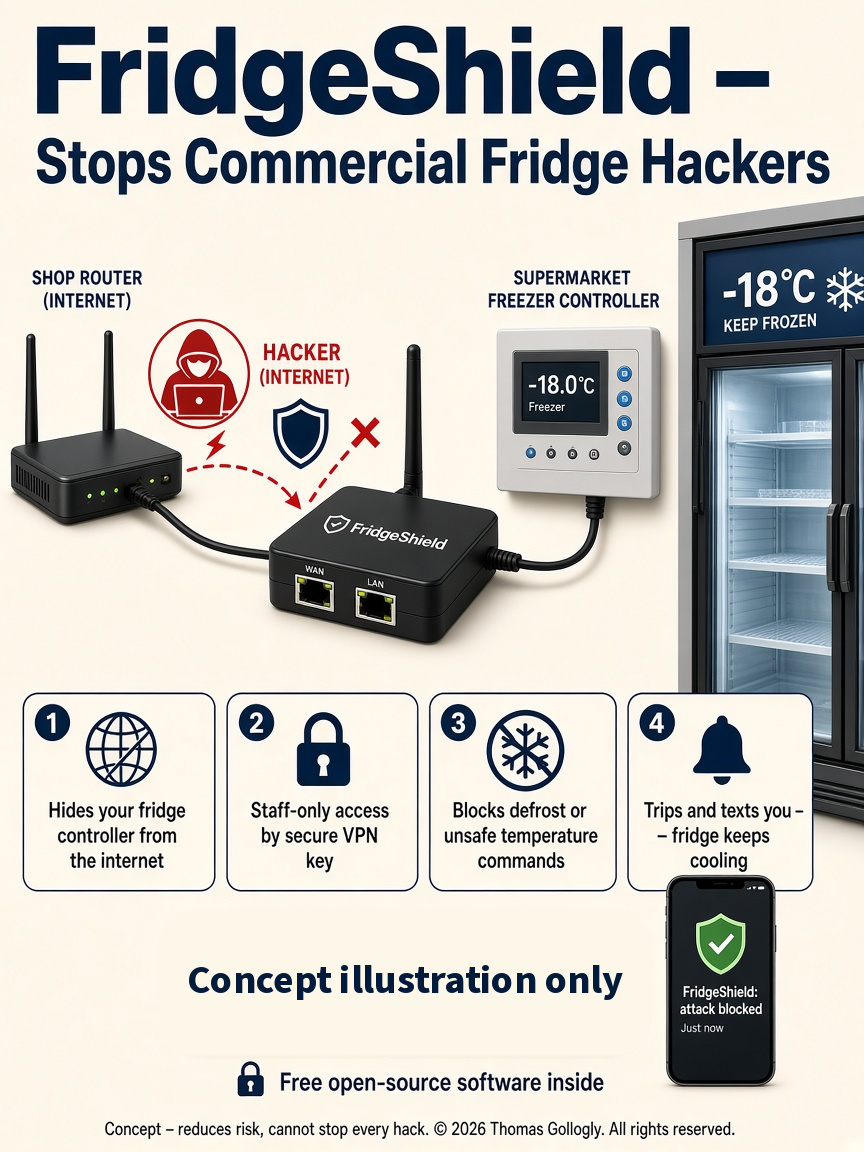
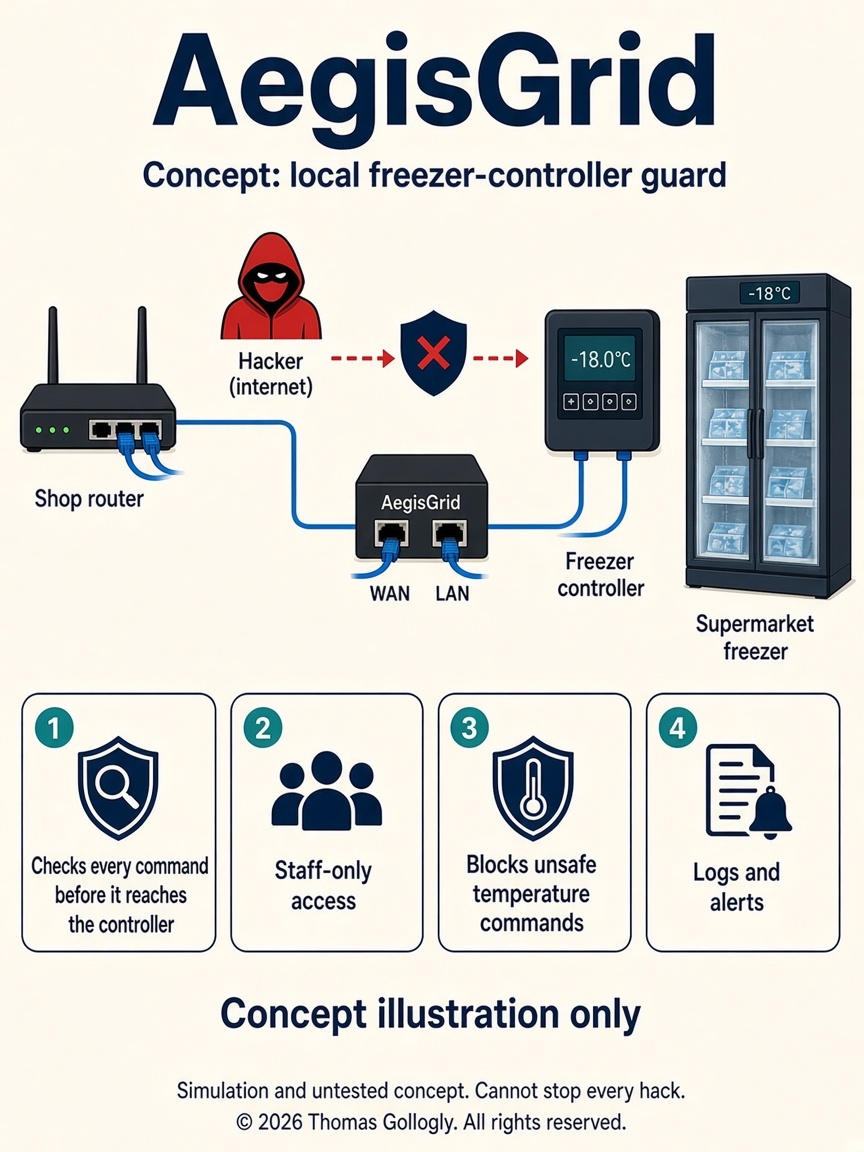
Security automation, WHY wording, poster rebrand, example disclaimer (#16)
* Add security CI, dependabot, disclaimer, and poster wording fixes

Dependabot and scheduled workflows run pip-audit and CodeQL weekly alongside
existing tests. WHY.md and the freezer sim README drop commercial framing;
the concept poster is rebranded to AegisGrid with headline and typo fixes.

* Ignore pytest 8.x advisory in pip-audit CI step

pytest 9.x is out of scope for this repo; pip-audit should still gate the
installed dependency set without failing on PYSEC-2026-1845 alone.

* Replace poster with clean AegisGrid source asset

Use uploaded poster-new/freezer-hack-sim-poster.jpg instead of Pillow patches.

* Update freezer hack sim poster to v2 source asset

Box 1 copy: checks every command before it reaches the controller.

---------

diff --git a/WHY.md b/WHY.md
@@ -1,12 +1,12 @@
 # Why AegisGrid exists
 
-AegisGrid was created **voluntarily** by [tgollogly](https://github.com/tgollogly) and released **free under the MIT Licence**. There is **no paid product**, **no subscription**, and **no income** from this repository.
+AegisGrid was created voluntarily by [tgollogly](https://github.com/tgollogly) and released under the MIT Licence for study and adaptation.
 
 ## The problem
 
 Food safety and personal resilience both depend on **cold storage working correctly**. Shops, community kitchens, labs, and connected **refrigeration gateways** are part of everyday life — and they are increasingly **network-connected**. When monitoring fails because of misconfiguration, tampering, or **cyber incidents** affecting operational or IoT kit, **temperature drift and spoilage** hurt small operators and households alike, not only large retailers.
 
-**Enterprise security platforms are expensive.** Basic patterns — access control, audit trails, bounds checking, and software integrity — should not be locked behind price tags only big chains can afford.
+Basic patterns — access control, audit trails, bounds checking, and software integrity — should be available to learn from and adapt, not only in large organisations.
 
 ## What AegisGrid is
 
@@ -30,7 +30,7 @@ See [DISCLAIMER.md](DISCLAIMER.md).
 
 ## Who it is for
 
-Anyone who wants **testable building blocks** to learn from or adapt on **small refrigeration / IoT gateways** — especially teams and individuals who need **defensive**, **local** tooling without enterprise budgets.
+Anyone who wants **testable building blocks** to learn from or adapt on **small refrigeration / IoT gateways** — especially people who want defensive, local tooling they can review themselves.
 
 **Goal:** help communities **defend what they rely on** with honest, reviewable code — and invite improvements via open source.
 

diff --git a/examples/freezer_hack_sim/README.md b/examples/freezer_hack_sim/README.md
@@ -1,5 +1,17 @@
 # Freezer hack simulation (localhost)
 
+## Legal disclaimer
+
+This repository includes a **software simulation** and an **untested concept** for learning and research only. It is **not** a certified safety or security device. **Do not** connect it to real refrigeration controllers, food storage, or any safety-critical or live equipment.
+
+Nothing is unhackable, and no protection is guaranteed. The software is provided **as is**, with **no warranty**, under the [MIT licence](../../LICENSE). The author accepts **no liability** for any loss, damage, food spoilage, or harm arising from its use or misuse.
+
+Users are responsible for following applicable laws, food-safety rules, and manufacturer guidance. Product and trademark names mentioned in this repository belong to their owners; there is no affiliation, endorsement, or official connection.
+
+See also [DISCLAIMER.md](../../DISCLAIMER.md).
+
+---
+
 Toy Python simulation of a supermarket-style freezer controller on **127.0.0.1**, a weak default password, an attacker-style script built into `simulation.py`, and a **guard proxy** that enforces a staff token, freezer temperature bounds **−25 °C to −15 °C**, trip behaviour, and a simulated SMS log line.
 
 It illustrates the pattern behind AegisGrid (tokens, bounds, fail-closed) without using the DuckDB engine in `core.py`.
